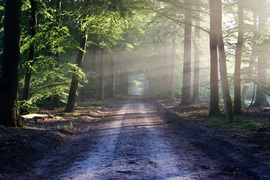
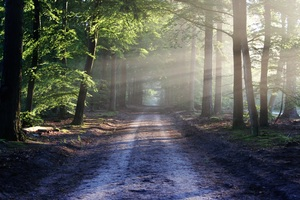
fix images in cards to look better in smaller viewport

diff --git a/src/components/card.js b/src/components/card.js
@@ -7,6 +7,8 @@ export default props => (
       <p className={styles.title}>{props.siteName}</p>
       <p className={styles.url}><em>{props.siteUrl}</em></p>
     </div>
-    <img alt={props.alt} className={styles.image} src={props.src} />
+    <div className={styles.frameContainer}>
+        <img alt={props.alt} className={styles.image} src={props.src} />
+    </div>
   </div>
 )

diff --git a/src/components/card.module.css b/src/components/card.module.css
@@ -10,8 +10,17 @@
 
 @media (max-width: 650px) {
   .container {
-    margin: 10px 0;
+    margin: 20px 0;
     margin-right: 0 !important;
+  }
+
+  .frameContainer {
+    display: flex;
+    justify-content: center;
+  }
+
+  .image {
+    width: 60% !important;
   }
 }
 
@@ -52,3 +61,4 @@
   border-bottom: 4px solid #0d4b6e;
   padding: 0 10px;
 }
+

diff --git a/src/pages/index.js b/src/pages/index.js
@@ -1,6 +1,6 @@
 import React from "react"
 import logo from "../imgs/company-logo.png"
-import hero from "../imgs/hero1.jpg"
+import hero from "../imgs/hero1.resized.jpg"
 import boat from "../imgs/boat.resized.jpg"
 import road from "../imgs/road.resized.jpg"
 import trees from "../imgs/trees.resized.jpeg"
